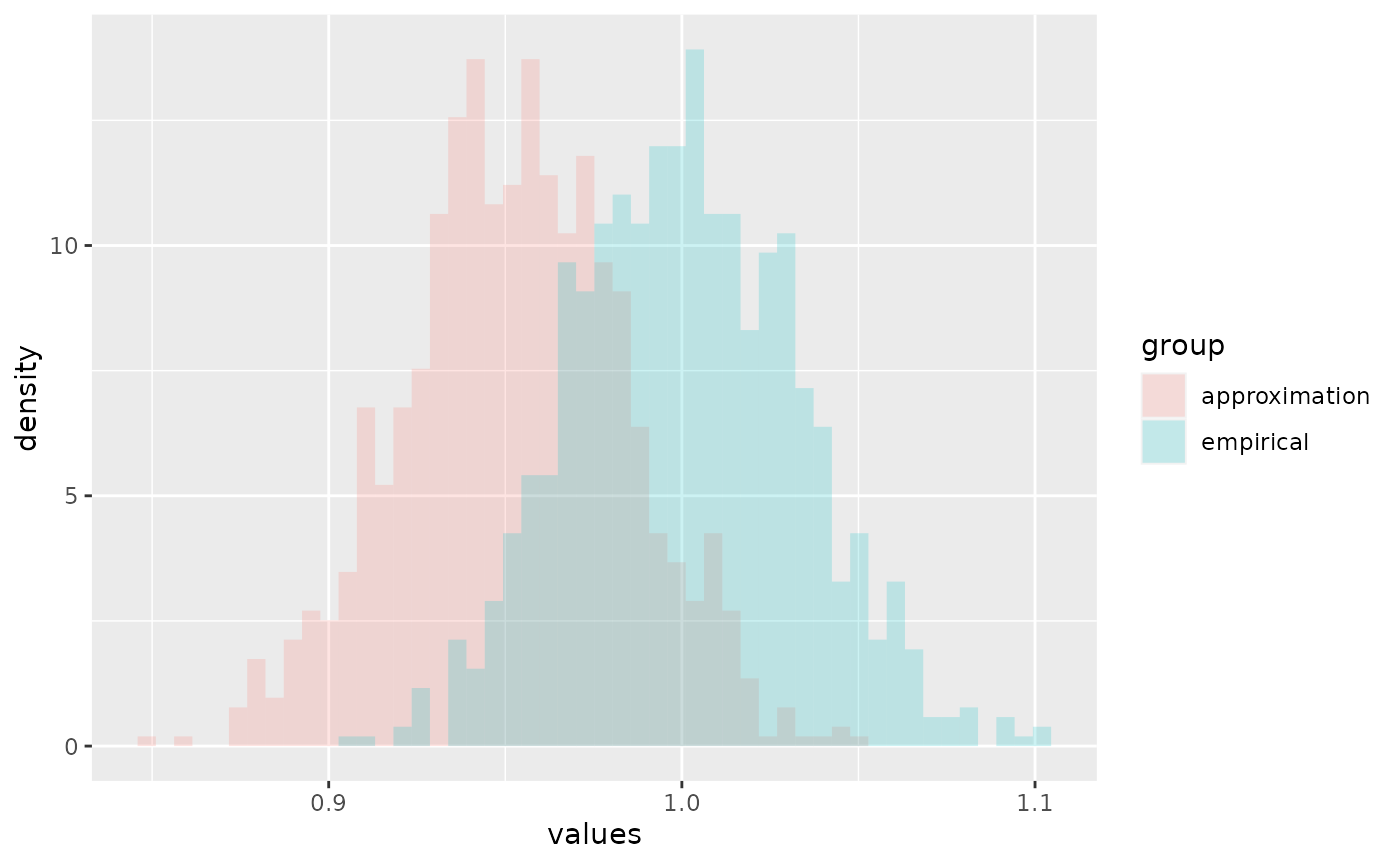
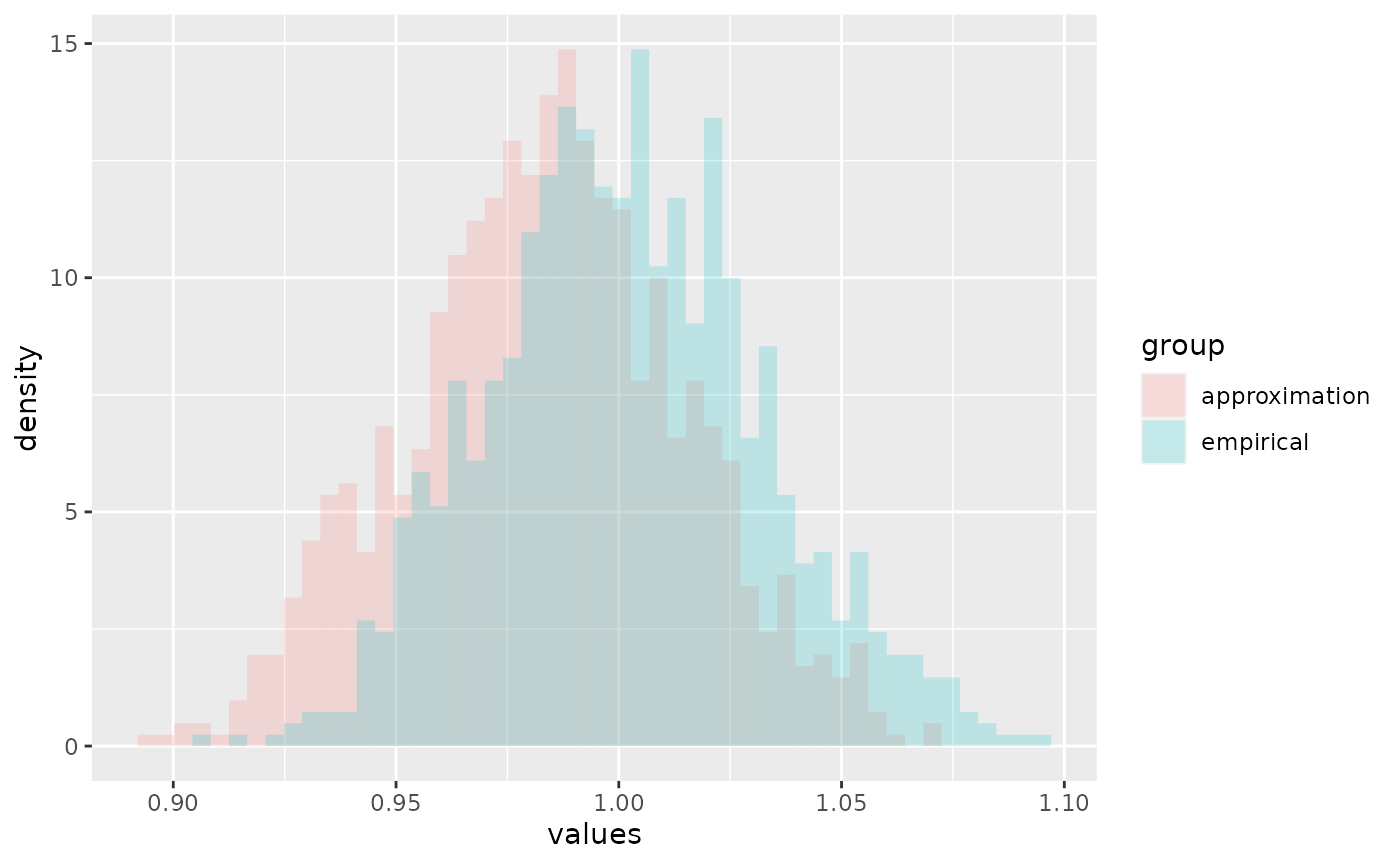
Built site for algebraic.mle: 0.1.0@a8edc46

diff --git a/index.html b/index.html
@@ -68,21 +68,16 @@
   </div>
 </nav><div class="container template-home">
 <div class="row">
-  <main id="main" class="col-md-9"><div class="section level1">
-<div class="page-header"><h1 id="algebraic-maximum-likelihood-estimators">Algebraic maximum likelihood estimators<a class="anchor" aria-label="anchor" href="#algebraic-maximum-likelihood-estimators"></a>
-</h1></div>
-<ul><li>
+  <main id="main" class="col-md-9"><ul><li>
 <a href="#r-package-algebraicmle" id="toc-r-package-algebraicmle">R package: <code>algebraic.mle</code></a><ul>
 <li><a href="#installation" id="toc-installation">Installation</a></li>
 <li><a href="#api" id="toc-api">API</a></li>
 </ul>
 </li></ul>
-<!-- README.md is generated from README.Rmd. Please edit that file -->
-</div>
-<div class="section level1">
-<h1 id="r-package-algebraicmle">R package: <code>algebraic.mle</code>
+<!-- README.md is generated from README.Rmd. Please edit that file --><div class="section level1">
+<div class="page-header"><h1 id="r-package-algebraicmle">R package: <code>algebraic.mle</code>
 <a class="anchor" aria-label="anchor" href="#r-package-algebraicmle"></a>
-</h1>
+</h1></div>
 <!-- badges: start --><!-- badges: end --><p>An algebra over maximum likelihood estimators (MLE).</p>
 <p>MLEs have many desirable, well-defined statistical properties. We define an algebra over MLEs.</p>
 <div class="section level2">
@@ -98,25 +93,30 @@
 </h2>
 <p>The object representing a fitted model is a type of <code>mle</code> object, the maximum likelihood estimator of the model with respect to observed data.</p>
 <p>For a full list of functions, see the <a href="https://queelius.github.io/algebraic.mle/reference/index.html">function reference</a> for <code>algebraic.mle</code>. In what follows, we briefly define the API (generic functions, mostly) with default implementations for objects that inherit from <code>mle</code>:</p>
-<ol style="list-style-type: decimal">
-<li><p><code>vcov(mle)</code> returns the variance-covariance matrix of the model’s parameter estimates. <code>mse(mle)</code> computes the asymptotic mean squared error of the <code>mle</code> object. <code>sd(mle)</code> computes the asymptotic standard deviation of the <code>mle</code> object. <code>confint(mle)</code> returns the asymptotic confidence intervals of the components of the parameter value estimated by the <code>mle</code> object. <code>point(mle)</code> returns the point that maximizes a likelihood of the model.</p></li>
-<li><p><code>sampler(mle)</code> maps to a function that may be used to sample from the sampling distribution of the <code>mle</code> object.</p></li>
-<li><p><code>mle_weighted(mles)</code> computes the <em>weighted</em> maximum likelihood estimate from independent <code>mle</code> objects in the list argument <code>mles</code>.</p></li>
-<li><p><code>fisher_info(mle)</code> returns the Fisher information matrix of the model’s parameters.</p></li>
-<li><p><code>rmap(mle,g)</code> provides an approximation of the maximum likelihood estimator of <img src="https://latex.codecogs.com/png.image?%5Cdpi%7B110%7D&amp;space;%5Cbg_white&amp;space;g%28%5Ctheta%29" title="g(\theta)" alt="g()"> where <code>mle</code> is an estimator of <img src="https://latex.codecogs.com/png.image?%5Cdpi%7B110%7D&amp;space;%5Cbg_white&amp;space;%5Ctheta" title="\theta" alt="">. The returned value is an <code>numerical_mle</code> estimator of <img src="https://latex.codecogs.com/png.image?%5Cdpi%7B110%7D&amp;space;%5Cbg_white&amp;space;g%28%5Ctheta%29" title="g(\theta)" alt="g()">. Note that <code>numerical_mle</code> inherits from <code>mle</code>.</p></li>
+<ul>
 <li>
-<p><code>linear_transform(A,mle)</code></p>
-<p>The normal distribution is closed under linear combinations and transformations. For instance, let <img src="https://latex.codecogs.com/png.image?%5Cdpi%7B110%7D&amp;space;%5Cbg_white&amp;space;A" title="A" alt="A"> be a <img src="https://latex.codecogs.com/png.image?%5Cdpi%7B110%7D&amp;space;%5Cbg_white&amp;space;p" title="p" alt="p">-by-<img src="https://latex.codecogs.com/png.image?%5Cdpi%7B110%7D&amp;space;%5Cbg_white&amp;space;q" title="q" alt="q"> matrix and <img src="https://latex.codecogs.com/png.image?%5Cdpi%7B110%7D&amp;space;%5Cbg_white&amp;space;%5Chat%5Ctheta" title="\hat\theta" alt=""> be a <img src="https://latex.codecogs.com/png.image?%5Cdpi%7B110%7D&amp;space;%5Cbg_white&amp;space;q" title="q" alt="q"> dimensional random vector (MLE of <img src="https://latex.codecogs.com/png.image?%5Cdpi%7B110%7D&amp;space;%5Cbg_white&amp;space;%5Ctheta" title="\theta" alt="">), then <img src="https://latex.codecogs.com/png.image?%5Cdpi%7B110%7D&amp;space;%5Cbg_white&amp;space;A%5Chat%5Ctheta" title="A\hat\theta" alt="A"> is a <img src="https://latex.codecogs.com/png.image?%5Cdpi%7B110%7D&amp;space;%5Cbg_white&amp;space;p" title="p" alt="p"> dimensional multivariate normal with a mean <img src="https://latex.codecogs.com/png.image?%5Cdpi%7B110%7D&amp;space;%5Cbg_white&amp;space;A%5Ctheta" title="A\theta" alt="A"> and a variance-covariance <img src="https://latex.codecogs.com/png.image?%5Cdpi%7B110%7D&amp;space;%5Cbg_white&amp;space;%5Coperatorname%7Btrans%7D%28A%29%5Coperatorname%7Bvcov%7D%28%5Chat%5Ctheta%29A" title="\operatorname{trans}(A)\operatorname{vcov}(\hat\theta)A" alt="(A)()A">. By the invariance property of the MLE, <img src="https://latex.codecogs.com/png.image?%5Cdpi%7B110%7D&amp;space;%5Cbg_white&amp;space;A%5Chat%5Ctheta" title="A\hat\theta" alt="A"> is the MLE of <img src="https://latex.codecogs.com/png.image?%5Cdpi%7B110%7D&amp;space;%5Cbg_white&amp;space;A%5Ctheta" title="A\theta" alt="A">.</p>
-</li>
+<code>vcov(mle)</code> returns the variance-covariance matrix of the model’s parameter estimates.</li>
 <li>
-<p><code>+(mle1,mle2)</code>, <code>-(mle1,mle2)</code>, <code>neg(mle)</code>, and <code>pos(mle)</code></p>
-<p>Assuming <code>mle1</code> and <code>mle2</code> are independent <code>mle</code> objects, we also define addition and subtraction of <code>mle</code> objects, e.g., <img src="https://latex.codecogs.com/png.image?%5Cdpi%7B110%7D&amp;space;%5Cbg_white&amp;space;%5Chat%5Ctheta_1%20%2B%20%5Chat%5Ctheta_2" title="\hat\theta_1 + \hat\theta_2" alt="_1 + _2"> is asymptotically distributed as</p>
-<div class="figure">
-<img src="https://latex.codecogs.com/png.image?%5Cdpi%7B110%7D&amp;space;%5Cbg_white&amp;space;N%28%5Cmu%20%3D%20%5Ctheta_1%2B%5Ctheta_2%2C%5Csigma%5E2%20%3D%20%5Csigma_%7B%5Chat%5Ctheta_1%7D%5E2%20%2B%0A%20%20%20%20%5Csigma_%7B%5Chat%5Ctheta_2%7D%5E2%29." title="N(\mu = \theta_1+\theta_2,\sigma^2 = \sigma_{\hat\theta_1}^2 + \sigma_{\hat\theta_2}^2)." alt=""><p class="caption">N(= _1+_2,^2 = _{_1}^2 + _{_2}^2).</p>
-</div>
-<p>This linear combination is the MLE of <img src="https://latex.codecogs.com/png.image?%5Cdpi%7B110%7D&amp;space;%5Cbg_white&amp;space;%5Ctheta_1%2B%5Ctheta_2" title="\theta_1+\theta_2" alt="_1+_2">.</p>
-</li>
-</ol>
+<code>mse(mle)</code> computes the asymptotic mean squared error of the <code>mle</code> object.</li>
+<li>
+<code>sd(mle)</code> computes the asymptotic standard deviation of the <code>mle</code> object.</li>
+<li>
+<code>confint(mle)</code> returns the asymptotic confidence intervals of the components of the parameter value estimated by the <code>mle</code> object.</li>
+<li>
+<code>point(mle)</code> returns the point that maximizes a likelihood of the model.</li>
+<li>
+<code>sampler(mle)</code> maps to a function that may be used to sample from the sampling distribution of the <code>mle</code> object.</li>
+<li>
+<code>mle_weighted(mles)</code> computes the <em>weighted</em> maximum likelihood estimate from independent <code>mle</code> objects in the list argument <code>mles</code>.</li>
+<li>
+<code>fisher_info(mle)</code> returns the Fisher information matrix of the model’s parameters.</li>
+<li>
+<code>rmap(mle,g)</code> provides an approximation of the maximum likelihood estimator of <img src="https://latex.codecogs.com/png.image?%5Cdpi%7B110%7D&amp;space;%5Cbg_white&amp;space;g%28%5Ctheta%29" title="g(\theta)" alt="g()"> where <code>mle</code> is an estimator of <img src="https://latex.codecogs.com/png.image?%5Cdpi%7B110%7D&amp;space;%5Cbg_white&amp;space;%5Ctheta" title="\theta" alt="">. The returned value is an <code>numerical_mle</code> estimator of <img src="https://latex.codecogs.com/png.image?%5Cdpi%7B110%7D&amp;space;%5Cbg_white&amp;space;g%28%5Ctheta%29" title="g(\theta)" alt="g()">. Note that <code>numerical_mle</code> inherits from <code>mle</code>.</li>
+<li>
+<code>linear_transform(A,mle)</code> provides a linear transformation of <code>mle</code>. The normal distribution is closed under linear combinations and transformations. For instance, let <img src="https://latex.codecogs.com/png.image?%5Cdpi%7B110%7D&amp;space;%5Cbg_white&amp;space;A" title="A" alt="A"> be a <img src="https://latex.codecogs.com/png.image?%5Cdpi%7B110%7D&amp;space;%5Cbg_white&amp;space;p" title="p" alt="p">-by-<img src="https://latex.codecogs.com/png.image?%5Cdpi%7B110%7D&amp;space;%5Cbg_white&amp;space;q" title="q" alt="q"> matrix and <img src="https://latex.codecogs.com/png.image?%5Cdpi%7B110%7D&amp;space;%5Cbg_white&amp;space;%5Chat%5Ctheta" title="\hat\theta" alt=""> be a <img src="https://latex.codecogs.com/png.image?%5Cdpi%7B110%7D&amp;space;%5Cbg_white&amp;space;q" title="q" alt="q"> dimensional random vector (MLE of <img src="https://latex.codecogs.com/png.image?%5Cdpi%7B110%7D&amp;space;%5Cbg_white&amp;space;%5Ctheta" title="\theta" alt="">), then <img src="https://latex.codecogs.com/png.image?%5Cdpi%7B110%7D&amp;space;%5Cbg_white&amp;space;A%5Chat%5Ctheta" title="A\hat\theta" alt="A"> is a <img src="https://latex.codecogs.com/png.image?%5Cdpi%7B110%7D&amp;space;%5Cbg_white&amp;space;p" title="p" alt="p"> dimensional multivariate normal with a mean <img src="https://latex.codecogs.com/png.image?%5Cdpi%7B110%7D&amp;space;%5Cbg_white&amp;space;A%5Ctheta" title="A\theta" alt="A"> and a variance-covariance <img src="https://latex.codecogs.com/png.image?%5Cdpi%7B110%7D&amp;space;%5Cbg_white&amp;space;%5Coperatorname%7Bt%7D%28A%29%5Coperatorname%7Bvcov%7D%28%5Chat%5Ctheta%29A" title="\operatorname{t}(A)\operatorname{vcov}(\hat\theta)A" alt="(A)()A">. By the invariance property of the MLE, <img src="https://latex.codecogs.com/png.image?%5Cdpi%7B110%7D&amp;space;%5Cbg_white&amp;space;A%5Chat%5Ctheta" title="A\hat\theta" alt="A"> is the MLE of <img src="https://latex.codecogs.com/png.image?%5Cdpi%7B110%7D&amp;space;%5Cbg_white&amp;space;A%5Ctheta" title="A\theta" alt="A">.</li>
+<li>
+<code>+(mle1,mle2)</code>, <code>-(mle1,mle2)</code> provides linear operators on <code>mle</code> objects. Assuming <code>mle1</code> and <code>mle2</code> are independent <code>mle</code> objects, we also define addition and subtraction of <code>mle</code> objects, e.g., <img src="https://latex.codecogs.com/png.image?%5Cdpi%7B110%7D&amp;space;%5Cbg_white&amp;space;%5Chat%5Ctheta_1%20%2B%20%5Chat%5Ctheta_2" title="\hat\theta_1 + \hat\theta_2" alt="_1 + _2"> is asymptotically distributed as <img src="https://latex.codecogs.com/png.image?%5Cdpi%7B110%7D&amp;space;%5Cbg_white&amp;space;N%28%5Cmu%20%3D%20%5Ctheta_1%2B%5Ctheta_2%2C%5Csigma%5E2%20%3D%20%5Csigma_%7B%5Chat%5Ctheta_1%7D%5E2%2B%5Csigma_%7B%5Chat%5Ctheta_2%7D%5E2%29" title="N(\mu = \theta_1+\theta_2,\sigma^2 = \sigma_{\hat\theta_1}^2+\sigma_{\hat\theta_2}^2)" alt="N(= _1+_2,^2 = _{_1}^2+_{_2}^2)">. This linear combination is the MLE of <img src="https://latex.codecogs.com/png.image?%5Cdpi%7B110%7D&amp;space;%5Cbg_white&amp;space;%5Ctheta_1%2B%5Ctheta_2" title="\theta_1+\theta_2" alt="_1+_2">.</li>
+</ul>
 </div>
 </div>
 

diff --git a/articles/exponential-mle.html b/articles/exponential-mle.html
@@ -106,9 +106,9 @@
 <span class="co">#&gt;       x</span>
 <span class="co">#&gt;   <span style="color: #949494; font-style: italic;">&lt;dbl&gt;</span></span>
 <span class="co">#&gt; <span style="color: #BCBCBC;">1</span> 0.237</span>
-<span class="co">#&gt; <span style="color: #BCBCBC;">2</span> 0.618</span>
-<span class="co">#&gt; <span style="color: #BCBCBC;">3</span> 0.646</span>
-<span class="co">#&gt; <span style="color: #BCBCBC;">4</span> 0.956</span></code></pre></div>
+<span class="co">#&gt; <span style="color: #BCBCBC;">2</span> 0.366</span>
+<span class="co">#&gt; <span style="color: #BCBCBC;">3</span> 1.50 </span>
+<span class="co">#&gt; <span style="color: #BCBCBC;">4</span> 0.136</span></code></pre></div>
 <p>We show a histogram of the sample overlaid with a plot of the exponential function’s pdf, with:</p>
 <div class="sourceCode" id="cb5"><pre class="downlit sourceCode r">
 <code class="sourceCode R"><span class="kw"><a href="https://rdrr.io/r/base/library.html" class="external-link">library</a></span><span class="op">(</span><span class="va"><a href="https://ggplot2.tidyverse.org" class="external-link">ggplot2</a></span><span class="op">)</span>
@@ -126,35 +126,35 @@
 <span class="fu"><a href="https://rdrr.io/r/base/summary.html" class="external-link">summary</a></span><span class="op">(</span><span class="va">rate.hat</span><span class="op">)</span>
 <span class="co">#&gt; Maximum likelihood estimator, of type mle_exp ,</span>
 <span class="co">#&gt; is normally distributed with mean</span>
-<span class="co">#&gt; [1] 0.9515709</span>
+<span class="co">#&gt; [1] 0.9831293</span>
 <span class="co">#&gt; and variance-covariance</span>
 <span class="co">#&gt;              [,1]</span>
-<span class="co">#&gt; [1,] 0.0009054873</span>
+<span class="co">#&gt; [1,] 0.0009665432</span>
 <span class="co">#&gt; ---</span>
-<span class="co">#&gt; The asymptotic mean squared error 0.0009054873 </span>
+<span class="co">#&gt; The asymptotic mean squared error 0.0009665432 </span>
 <span class="co">#&gt; The asymptotic 95% confidence interval is</span>
-<span class="co">#&gt;       2.5 %   97.5 %</span>
-<span class="co">#&gt; 1 0.9020751 1.001067</span>
-<span class="co">#&gt; The log-likelihood is -1049.641 </span>
-<span class="co">#&gt; The AIC is 2101.282</span></code></pre></div>
+<span class="co">#&gt;      2.5 %   97.5 %</span>
+<span class="co">#&gt; 1 0.931992 1.034267</span>
+<span class="co">#&gt; The log-likelihood is -1017.015 </span>
+<span class="co">#&gt; The AIC is 2036.029</span></code></pre></div>
 <p>We can show the point estimator with:</p>
 <div class="sourceCode" id="cb7"><pre class="downlit sourceCode r">
 <code class="sourceCode R"><span class="fu"><a href="../reference/point.html">point</a></span><span class="op">(</span><span class="va">rate.hat</span><span class="op">)</span>
-<span class="co">#&gt; [1] 0.9515709</span></code></pre></div>
+<span class="co">#&gt; [1] 0.9831293</span></code></pre></div>
 <p>We can show the Fisher information and variance-covariance matrices with:</p>
 <div class="sourceCode" id="cb8"><pre class="downlit sourceCode r">
 <code class="sourceCode R"><span class="fu"><a href="../reference/fisher_info.html">fisher_info</a></span><span class="op">(</span><span class="va">rate.hat</span><span class="op">)</span>
 <span class="co">#&gt;          [,1]</span>
-<span class="co">#&gt; [1,] 1104.378</span>
+<span class="co">#&gt; [1,] 1034.615</span>
 <span class="fu"><a href="https://rdrr.io/r/stats/vcov.html" class="external-link">vcov</a></span><span class="op">(</span><span class="va">rate.hat</span><span class="op">)</span>
 <span class="co">#&gt;              [,1]</span>
-<span class="co">#&gt; [1,] 0.0009054873</span></code></pre></div>
+<span class="co">#&gt; [1,] 0.0009665432</span></code></pre></div>
 <p>(If <code>rate.hat</code> had been a vector, <code>vcov</code> would have output a variance-covariance matrix. We may consider the above outputs <span class="math inline">\(1 \times 1\)</span> matrices.)</p>
 <p>We can show the confidence interval with:</p>
 <div class="sourceCode" id="cb9"><pre class="downlit sourceCode r">
 <code class="sourceCode R"><span class="fu"><a href="https://rdrr.io/r/stats/confint.html" class="external-link">confint</a></span><span class="op">(</span><span class="va">rate.hat</span><span class="op">)</span>
-<span class="co">#&gt;       2.5 %   97.5 %</span>
-<span class="co">#&gt; 1 0.9020751 1.001067</span></code></pre></div>
+<span class="co">#&gt;      2.5 %   97.5 %</span>
+<span class="co">#&gt; 1 0.931992 1.034267</span></code></pre></div>
 <div class="section level3">
 <h3 id="sampling-distribution-of-the-mle">Sampling distribution of the MLE<a class="anchor" aria-label="anchor" href="#sampling-distribution-of-the-mle"></a>
 </h3>
@@ -201,15 +201,15 @@
 <p>We compute the MLE of <span class="math inline">\(2 \hat\lambda\)</span> (using a simulation size <span class="math inline">\(n=1000\)</span>) with:</p>
 <div class="sourceCode" id="cb14"><pre class="downlit sourceCode r">
 <code class="sourceCode R"><span class="va">f.hat</span> <span class="op">&lt;-</span> <span class="fu"><a href="../reference/rmap.html">rmap</a></span><span class="op">(</span><span class="va">rate.hat</span>,<span class="va">f</span>,n<span class="op">=</span><span class="fl">1000</span><span class="op">)</span></code></pre></div>
-<p>Note that the simulation size is only for estimating <span class="math inline">\(f(\lambda)\)</span>, but the and we can make this as large as we wish, but it will only be as good as the original estimate of <span class="math inline">\(\theta\)</span>, which we cannot control.</p>
+<p>Note that the simulation size is only for estimating <span class="math inline">\(f(\lambda)\)</span>; regardless of how large large <span class="math inline">\(n\)</span> is, the MLE of <span class="math inline">\(f(\hat \lambda)\)</span> will have a sampling error that is, at best, a function of the sampling error <span class="math inline">\(\hat\lambda\)</span>.</p>
 <p>Then, <span class="math inline">\(\operatorname{var}(f(\hat\lambda)) = 4 \lambda^2/n\)</span>. Letting <span class="math inline">\(\lambda=1\)</span>, we see that, asymptotically, <span class="math inline">\(g(\hat\lambda) \sim N(2,4/n)\)</span>.</p>
 <p>We expected a mean of <span class="math inline">\(2\)</span> and a variance of <span class="math inline">\(4/n = 0.004\)</span>, which is pretty close to what we obtained:</p>
 <div class="sourceCode" id="cb15"><pre class="downlit sourceCode r">
 <code class="sourceCode R"><span class="fu"><a href="../reference/point.html">point</a></span><span class="op">(</span><span class="va">f.hat</span><span class="op">)</span>
-<span class="co">#&gt; [1] 1.903142</span>
+<span class="co">#&gt; [1] 1.966259</span>
 <span class="fu"><a href="https://rdrr.io/r/stats/vcov.html" class="external-link">vcov</a></span><span class="op">(</span><span class="va">f.hat</span><span class="op">)</span>
-<span class="co">#&gt;            [,1]</span>
-<span class="co">#&gt; [1,] 0.00355898</span></code></pre></div>
+<span class="co">#&gt;             [,1]</span>
+<span class="co">#&gt; [1,] 0.003892377</span></code></pre></div>
 </div>
 </div>
 </div>
@@ -248,9 +248,9 @@
 <span class="fu"><a href="https://rdrr.io/r/base/colnames.html" class="external-link">colnames</a></span><span class="op">(</span><span class="va">df</span><span class="op">)</span> <span class="op">&lt;-</span> <span class="fu"><a href="https://rdrr.io/r/base/c.html" class="external-link">c</a></span><span class="op">(</span><span class="st">"point estimate"</span>,<span class="st">"variance"</span><span class="op">)</span>
 <span class="fu"><a href="https://tibble.tidyverse.org/reference/rownames.html" class="external-link">rownames</a></span><span class="op">(</span><span class="va">df</span><span class="op">)</span> <span class="op">&lt;-</span> <span class="fu"><a href="https://rdrr.io/r/base/c.html" class="external-link">c</a></span><span class="op">(</span><span class="st">"weighted MLE"</span>, <span class="st">"MLE"</span><span class="op">)</span>
 <span class="fu"><a href="https://rdrr.io/r/base/print.html" class="external-link">print</a></span><span class="op">(</span><span class="va">df</span><span class="op">)</span>
-<span class="co">#&gt;              point estimate     variance</span>
-<span class="co">#&gt; weighted MLE      0.9434764 0.0008910664</span>
-<span class="co">#&gt; MLE               0.9444502 0.0008919861</span></code></pre></div>
+<span class="co">#&gt;              point estimate    variance</span>
+<span class="co">#&gt; weighted MLE       1.013595 0.001028984</span>
+<span class="co">#&gt; MLE                1.015183 0.001030596</span></code></pre></div>
 <p>We see that <span class="math inline">\(\hat\theta\)</span> and <span class="math inline">\(\hat\theta_w\)</span> model approximately the same sampling distribution for <span class="math inline">\(\theta\)</span>.</p>
 </div>
 </div>
